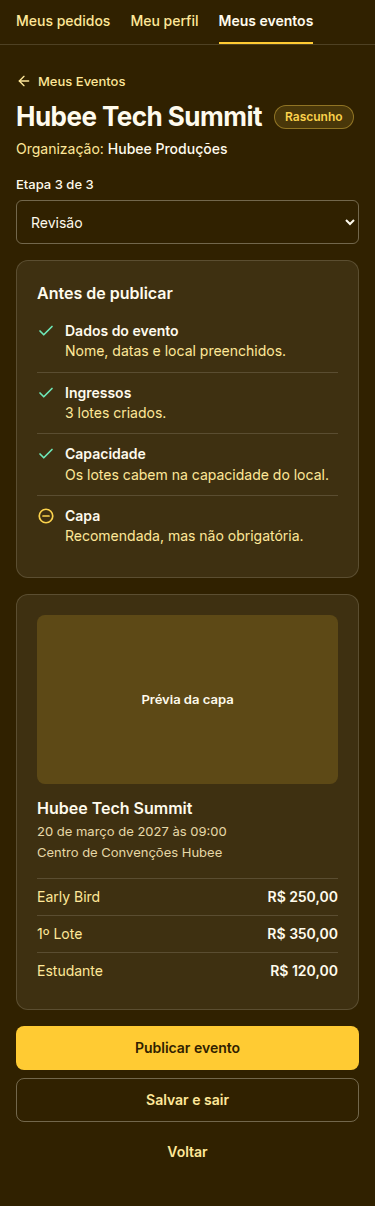
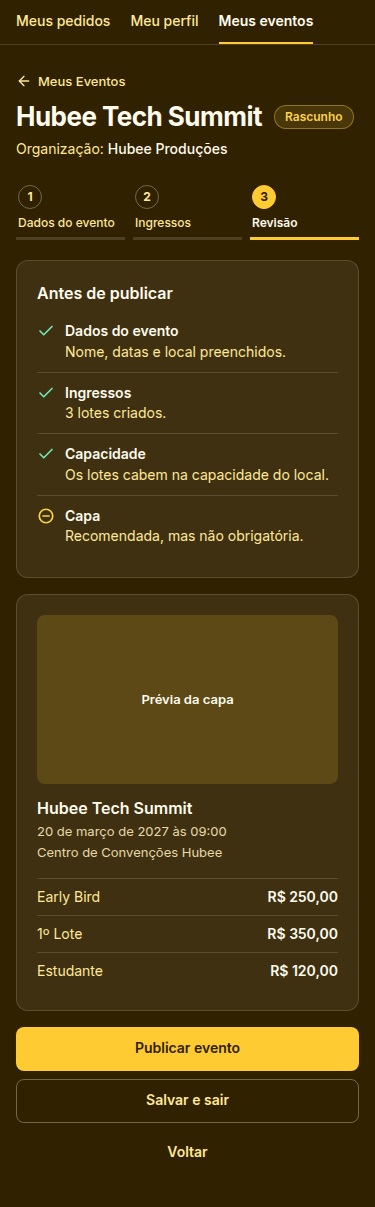
docs(GOL-205): recolhe secoes dos dados do evento no mobile
Restaura as etapas lado a lado no lugar do dropdown.

diff --git a/docs/figma/criacao-eventos-lotes.md b/docs/figma/criacao-eventos-lotes.md
@@ -21,8 +21,6 @@ flowchart LR
     D -- Salvar e sair --> A
 ```
 
-No desktop, as etapas aparecem lado a lado. No mobile, elas viram um dropdown com a indicação "Etapa X de 3", para ocupar menos espaço no topo da tela.
-
 ## Etapa 1: dados do evento
 
 | Seção | Campo | Regra | Campo da API |
@@ -39,6 +37,8 @@ No desktop, as etapas aparecem lado a lado. No mobile, elas viram um dropdown co
 | **Local** | Local do evento | Obrigatório, escolhido entre os locais cadastrados. A capacidade máxima aparece ao selecionar | `venueId` |
 
 A organização vem da organização ativa em Meus Eventos (`organizerId`). O campo `featured` não aparece no formulário, porque só o administrador da plataforma pode destacar eventos.
+
+No mobile, cada seção abre e fecha para reduzir a rolagem. Só "Informações básicas" começa aberta, e as seções fechadas mostram um resumo do que foi preenchido. Uma seção com erro de validação fica aberta. No desktop, todas ficam sempre abertas.
 
 ![Dados do evento - tema claro (desktop)](/img/gol-205/dados-claro-desktop.png)
 
